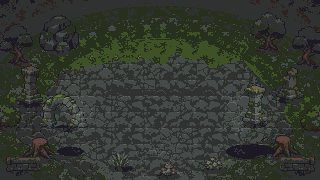
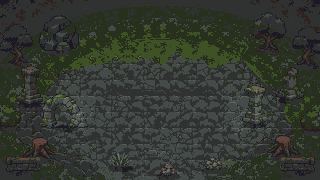
Menu: remove the live hero and golem (and the baked shadows in the fallback)

Changed region(s): [[0.6875, 0.7778, 0.875, 0.8889], [0.1562, 0.8056, 0.2812, 0.8889]]

diff --git a/tools/art/make_menu_background.py b/tools/art/make_menu_background.py
@@ -2,8 +2,7 @@
 
 A dusk view of the Mossbound Colossus's arena: grass outside, a ring of ruined flagstones and cracked ground in the
 middle, ruins, trees and walls around the edge, all from the real tiles and props in art/src, then graded to dusk and
-snapped to the Totoy 36 palette (no reserved gold/red). Hero and golem are NOT in the picture: the menu draws them
-live (animated idle) standing on the shadows baked in here at FEET_HERO and FEET_GOLEM.
+snapped to the Totoy 36 palette (no reserved gold/red). No characters are in the picture.
 
 Writes presentation/menu/menu_background.png (320x180). Deterministic (fixed seed).
 Run from the project root:  python tools/art/make_menu_background.py [--preview]
@@ -26,8 +25,6 @@ ROOT = artlib.ROOT
 SRC = artlib.SRC_DIR
 OUT = ROOT / "presentation" / "menu" / "menu_background.png"
 W, H = 320, 180
-FEET_HERO = (70, 150)  # keep in sync with presentation/menu/title.gd
-FEET_GOLEM = (250, 150)
 SEED = 20261019
 
 palette = artlib.load_palette()
@@ -120,9 +117,6 @@ def add_props(canvas: Image.Image) -> None:
     for name, x, y, flip in sorted(items, key=lambda i: i[2]):
         shadow(canvas, (x, y), 12, 3, 0.45)
         place(canvas, name, (x, y), flip)
-    # shadows where the live hero and golem will stand
-    shadow(canvas, (FEET_HERO[0], FEET_HERO[1] + 1), 13, 4, 0.6)
-    shadow(canvas, (FEET_GOLEM[0], FEET_GOLEM[1] + 1), 24, 7, 0.6)
 
 
 # ---------------------------------------------------------------- grading

diff --git a/docs/STATUS.md b/docs/STATUS.md
@@ -2,6 +2,10 @@
 
 Last updated: 2026-10-16 · Branch: `main` · **Everything described below is merged into `main`** (the human approved the merge on 2026-10-16: the playable combat arena, boss patterns, the hero from the human's reference art, the HUD, the Stage 2 harness and the harness-built test). Verified on `main` after the merge: validator, 57 Python tests, Godot import, 38 core tests and every smoke suite pass. The section names below still mention the feature branches they were built on; those branches and their worktrees still exist and were not deleted. Next likely steps: the human's new art from Gemini (see `docs/GEMINI_PROMPT_PACK.md`), then importer support for those sheets; more real harness runs.
 
+## Menu without characters (2026-10-19, NOT merged)
+
+The human asked to remove the hero and the golem from the menu. `title.gd` no longer draws any character, shadow or sprite atlas (the idle animation code is gone); the pixel-art fallback background no longer has shadows baked in (`make_menu_background.py` regenerated). `smoke_title.gd` dropped the idle-frame and shadow checks and asserts no characters are drawn.
+
 ## Painted menu background (2026-10-19, NOT merged)
 
 The human supplied a painting (ruined arches, a giant glowing tree, waterfalls; `art/reference/menu_background_source.jpg`, 2000x1116) and asked for it as the menu background, with lighting and colour edited to fit the game. `tools/art/grade_menu_background.py` crops it to 16:9 and grades it to the game's dusk mood: cooler and darker, shadows toward violet, the bright sky and sun rays turned into pale moonlight, a twilight gradient on the sky, a vignette, and a calmer blurred darker area behind the menu (output `presentation/menu/menu_background.jpg`, 1920x1080). `title.gd` shows it with a smooth-filtered sprite behind everything (it is a painting, not pixel art), draws soft shadows under the live idle hero and golem, keeps the fireflies, and dims it on the controls and credits pages. The earlier pixel-art arena background (`menu_background.png`, composed from the game's own tiles) stays as the fallback if the painting is missing. `smoke_title.gd` checks the painting's size and sprite, keeps the palette and baked-shadow checks on the fallback, and the original is kept. **Provenance to confirm:** I do not know where the painting comes from or its licence (it looks AI-generated or stock); the credits say "menu painting: supplied by the owner". Please confirm the source and licence before any public release, and change the credits line to the real attribution. Style note: the painting is smooth illustration next to pixel-art sprites; that is the human's call.
